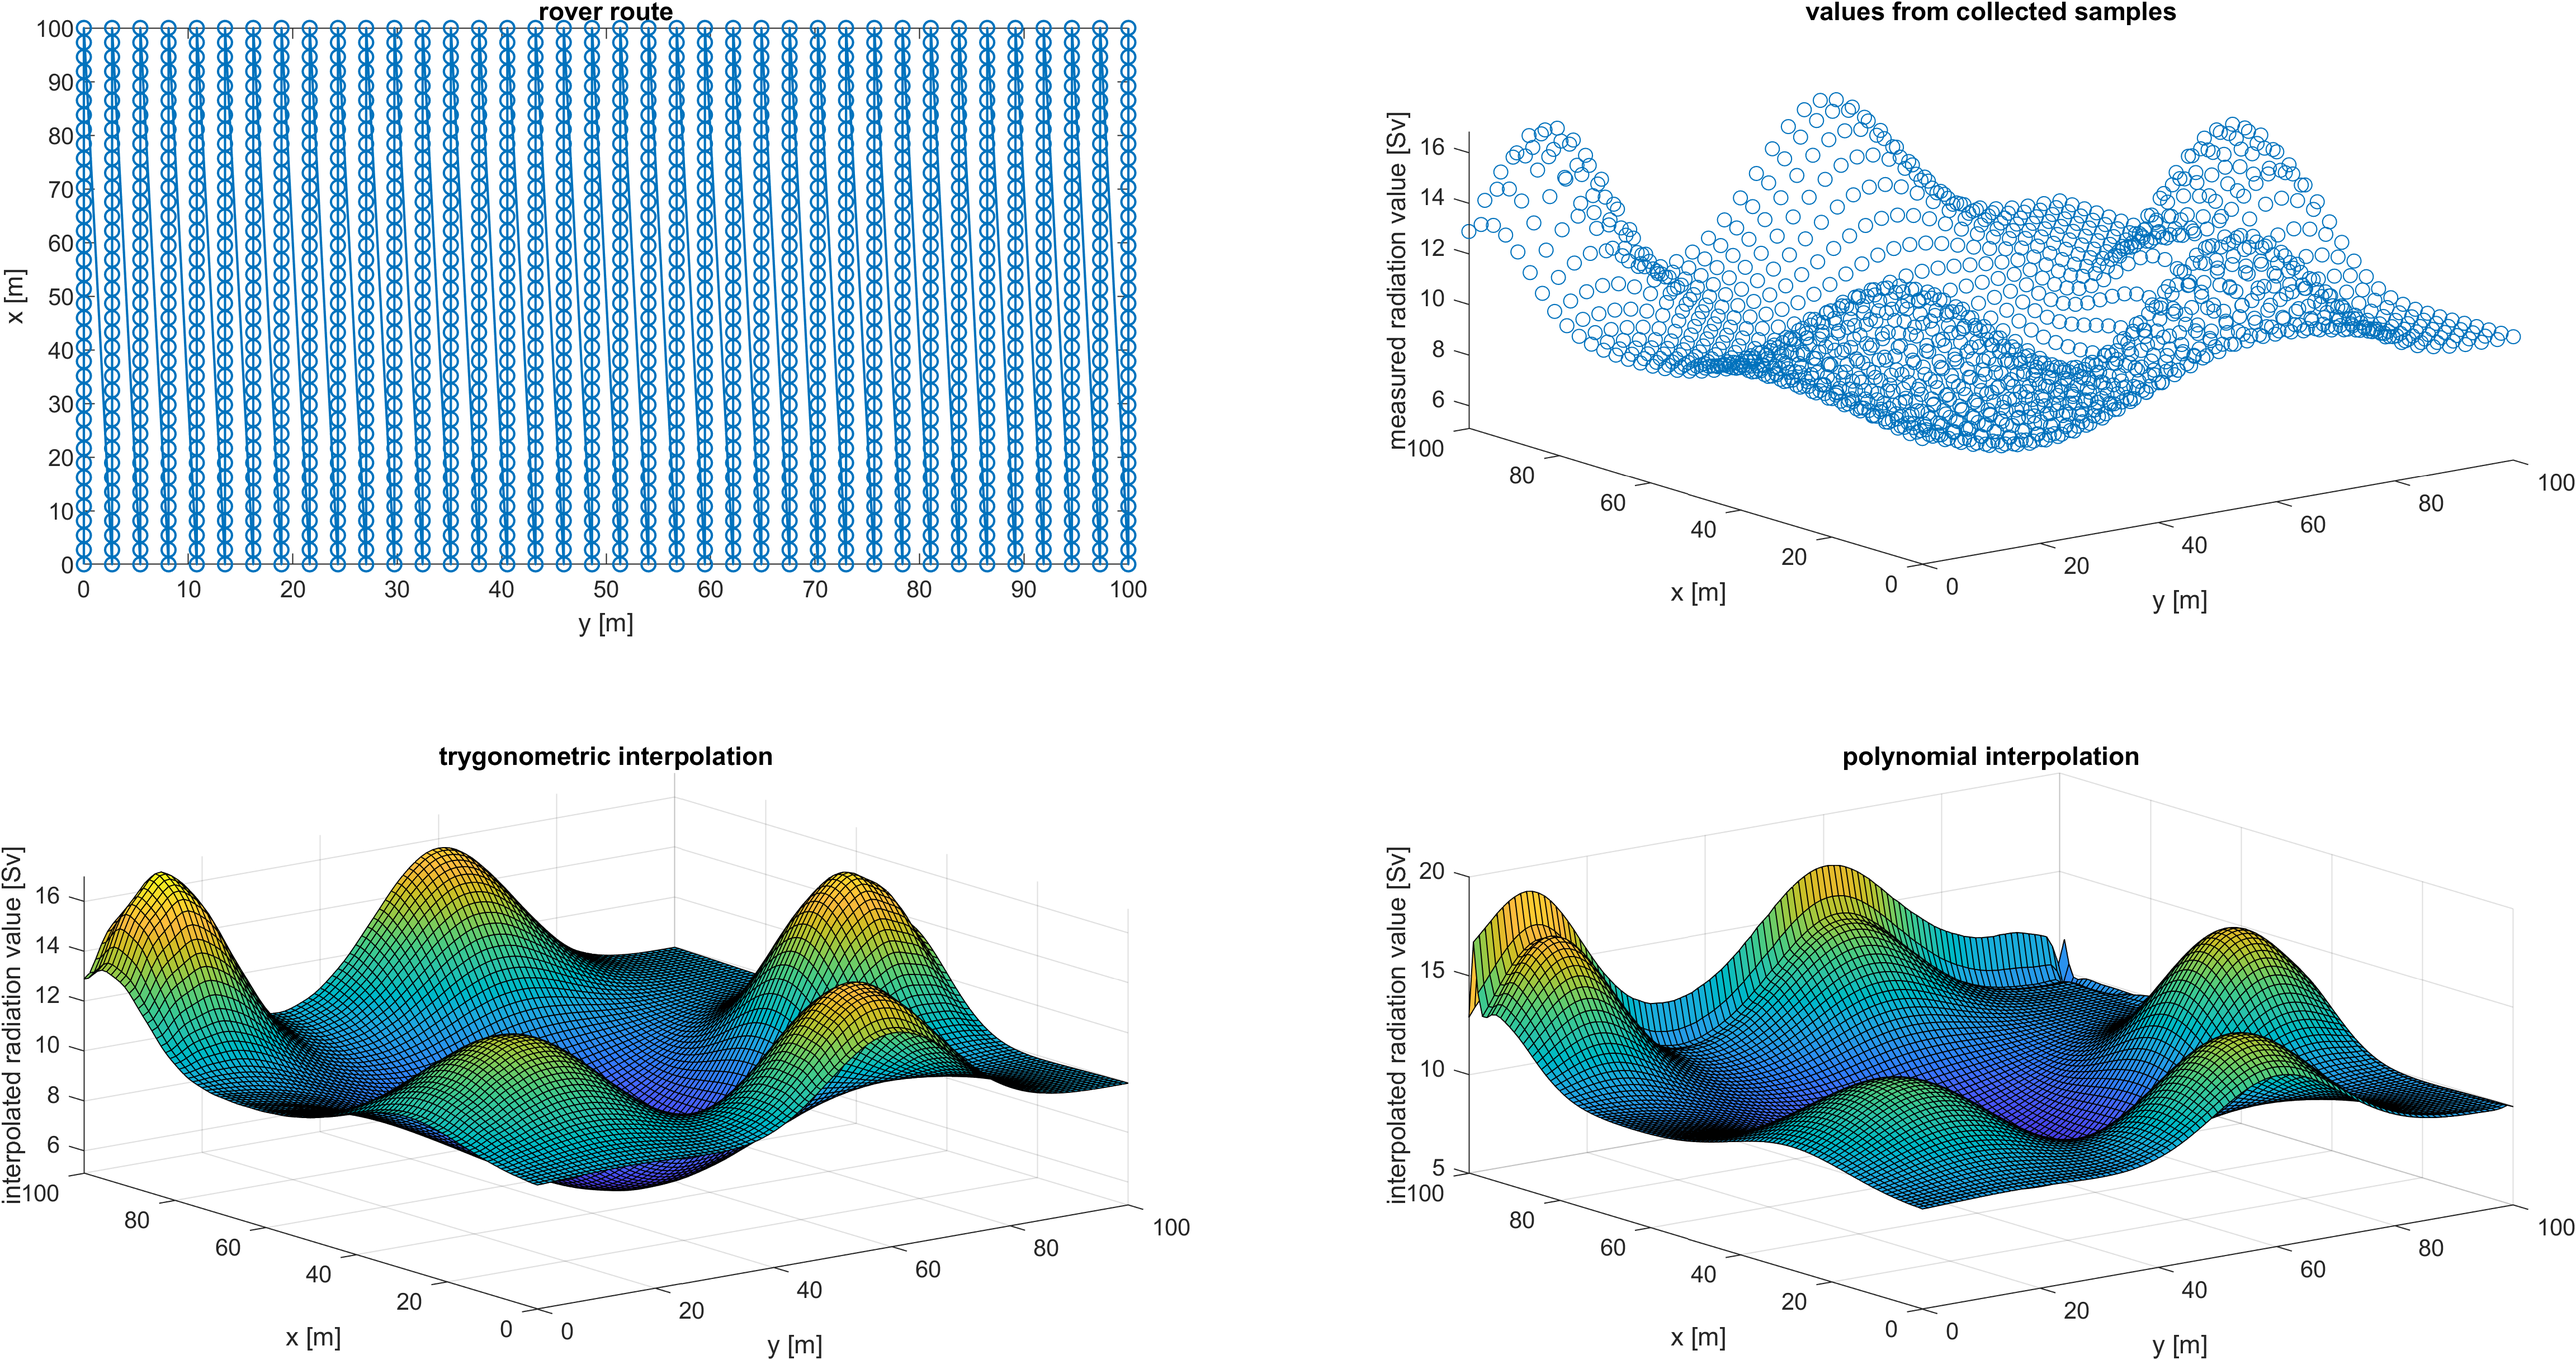
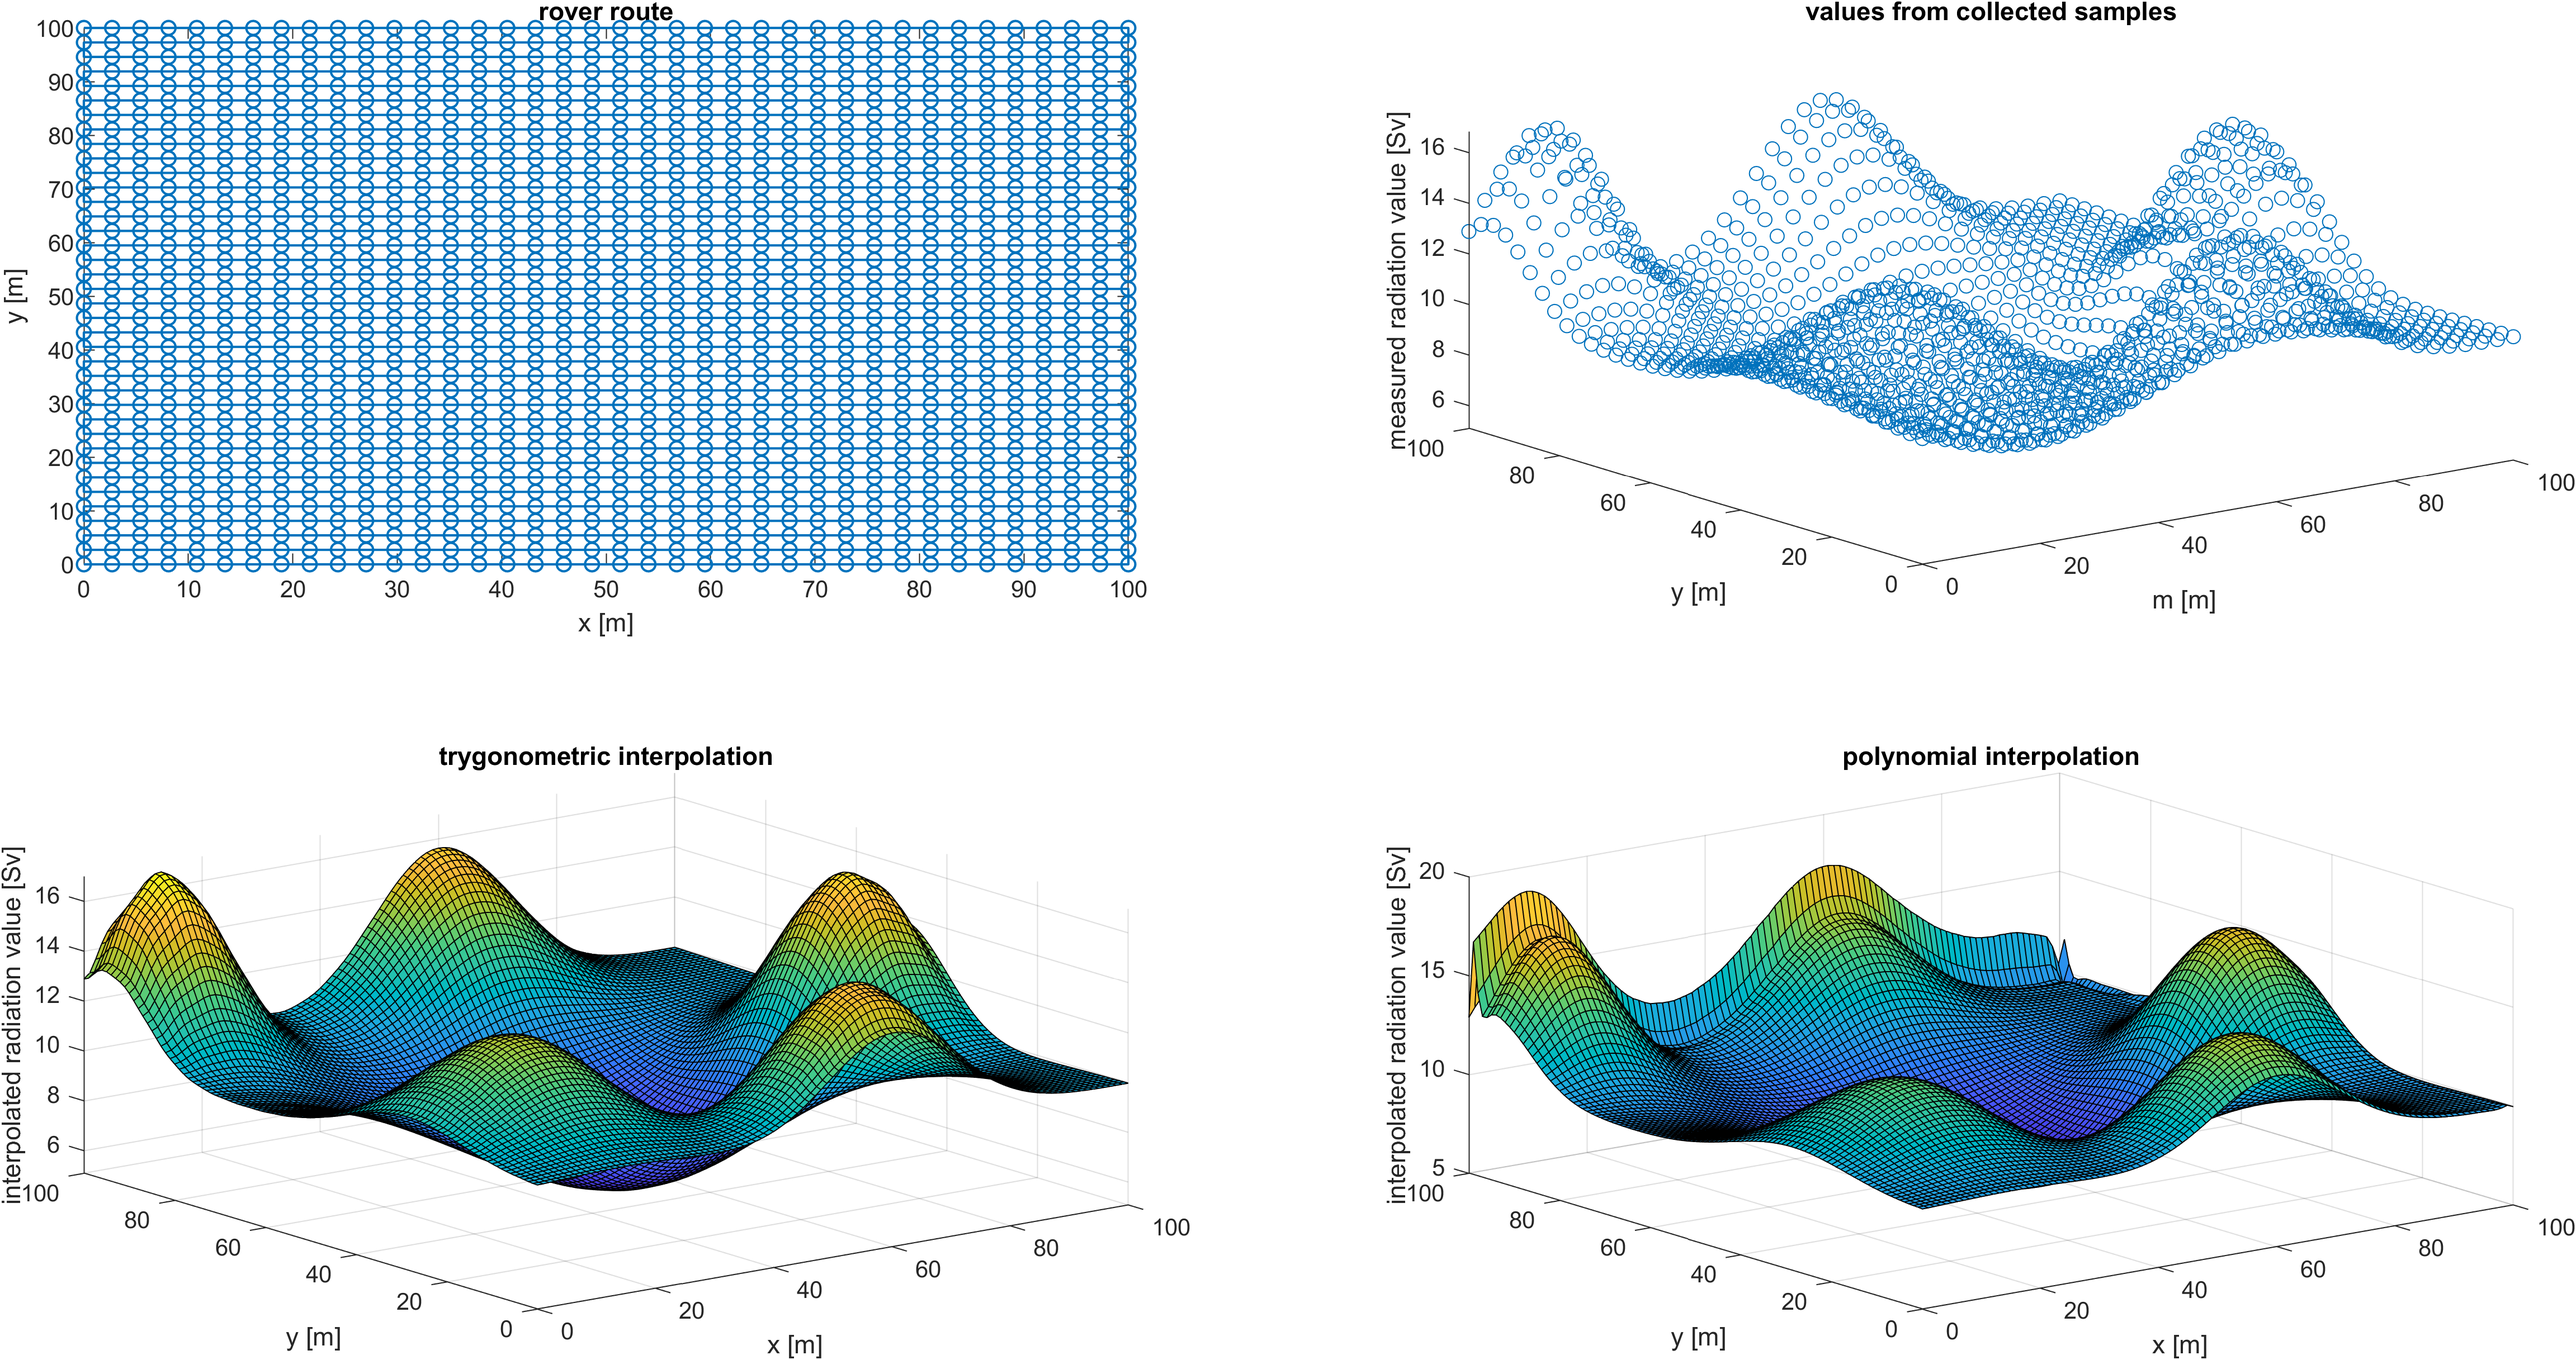
fixed labels and rover route plotting

Changed region(s): [[0.031, 0.0, 0.4346, 0.4059], [0.8381, 0.4371, 0.8691, 0.4684]]

diff --git a/MN/lab5/main.m b/MN/lab5/main.m
@@ -20,7 +20,7 @@ function ex1(K)
     for idx = 1:numel(K)
 
     %generate terrain (sample placement)
-    [x,y,f] = lazik(K(idx));
+    [x,y,f, xp, yp] = lazik(K(idx));
 
     %generate rover routee
     [XX,YY]=meshgrid(linspace(0,100,101),linspace(0,100,101));
@@ -30,17 +30,17 @@ function ex1(K)
 
     %plot rover route
     subplot(2,2,1);
-    plot(x,y,'-o','linewidth',1);
+    plot(xp,yp,'-o','linewidth',1);
     title("rover route");
-    ylabel("x [m]");
-    xlabel("y [m]");
+    ylabel("y [m]");
+    xlabel("x [m]");
 
     %plot sample placement
     subplot(2,2,2);
     plot3(x,y,f,'o');
     title("values from collected samples");
-    ylabel("x [m]");
-    xlabel("y [m]");
+    ylabel("y [m]");
+    xlabel("m [m]");
     zlabel("measured radiation value [Sv]");
 
     %trygonmetric interpolation
@@ -49,8 +49,8 @@ function ex1(K)
     subplot(2,2,3);
     surf(XX,YY,FF)
     title('trygonometric interpolation');
-    ylabel("x [m]");
-    xlabel("y [m]");
+    ylabel("y [m]");
+    xlabel("x [m]");
     zlabel("interpolated radiation value [Sv]");
 
     %plynomial interpolation
@@ -59,8 +59,8 @@ function ex1(K)
     subplot(2,2,4);
     surf(XX,YY,FF)
     title('polynomial interpolation');
-    ylabel("x [m]");
-    xlabel("y [m]");
+    ylabel("y [m]");
+    xlabel("x [m]");
     zlabel("interpolated radiation value [Sv]");
     
     %export plots
